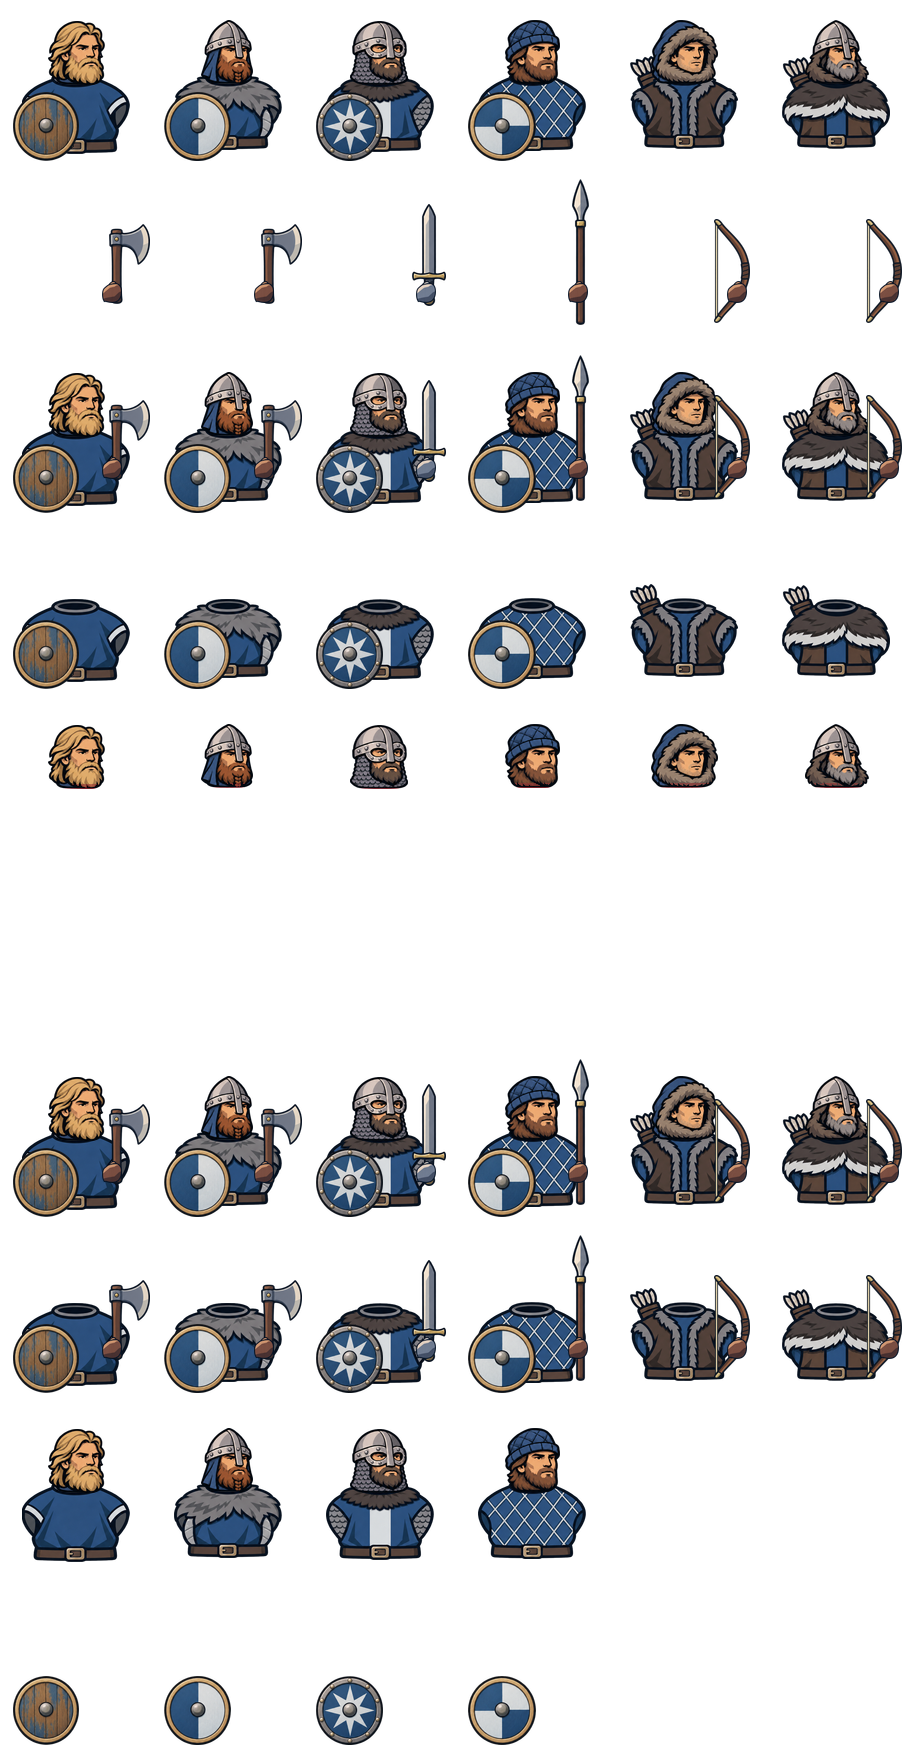
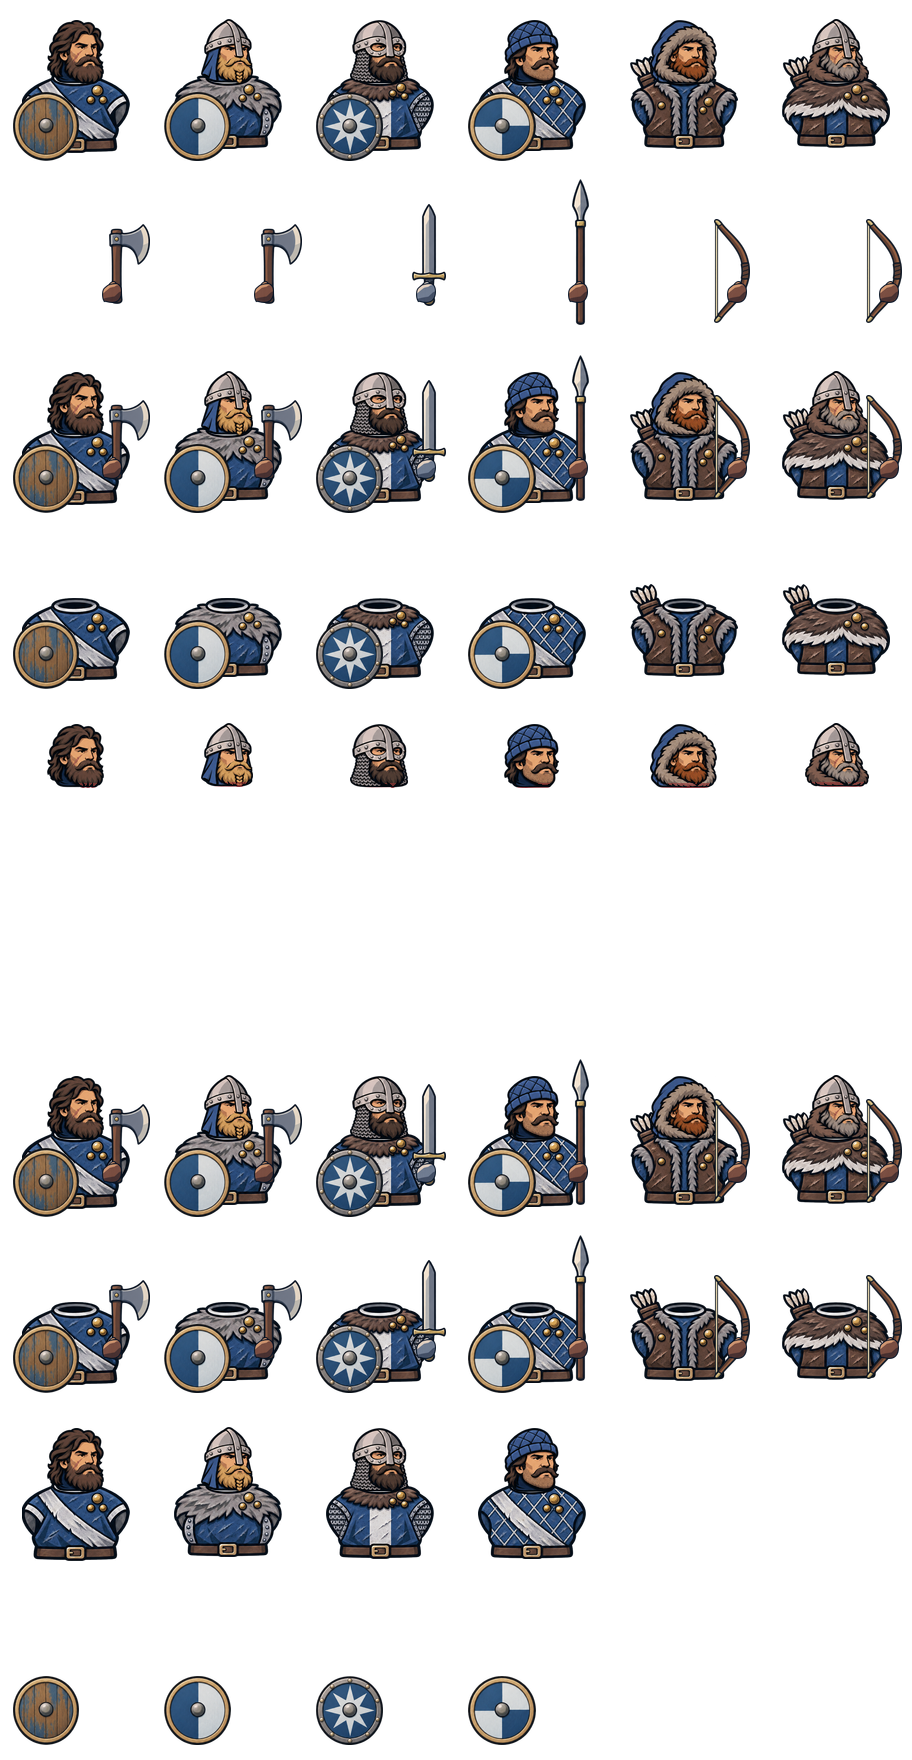
Север: варианты бойцов — другие лица, детали брони и масти коней (#291) (#303)
Claude-Session: https://claude.ai/code/session_0112NLBndME8PiXpuX2g7p2P

diff --git a/godot/tools/battle/heraldic_source/nord-prompts.md b/godot/tools/battle/heraldic_source/nord-prompts.md
@@ -84,3 +84,18 @@ ONE upright wooden hunting BOW in the center of a square canvas, seen from the s
 ```
 
 Если генератор вернул шахматку вместо прозрачности — ничего, фон вычищается заливкой от краёв.
+
+## Варианты
+
+Листы `nord-torsos-v1…v3.png` и `nord-heads-v1…v3.png` — правка `nord-torsos.png` / `nord-heads.png` (вложение) тем же
+генератором (Codex получал промпт файлом `.txt` вместе с исходным листом), по образцу вариантов Галлии (`kin-prompts.md`).
+Туловища: «Draw a VARIANT of the SAME sheet: the same 7 troops in the SAME cells… Every torso keeps EXACTLY its troop's
+armour type, its main colours (deep blue and pale silvery white), its silhouette… Only the DETAILS change: …», хвост про
+стиль, сетку 3×3, ремень с одной пряжкой и цвет тыльного края выреза. v1 — поношенная ткань с тёмными заплатами, отделка
+тонкими полосами, простые железные пряжки; v2 — кожаные ремни и наплечники, шахматная кайма, латунные заклёпки, поясные
+сумки; v3 — выцветшая ткань, белая перевязь и белый ворот, латунные бляхи, ряды заклёпок. Первые v2 и v3 генератор вернул
+почти копией основного листа — промпт пришлось усилить, перечислив детали прямо.
+Головы: «the same 7 helmets, hoods and headgear in the SAME cells… but DIFFERENT MEN under them», шея обрезана так же и
+без голой кожи. v1 — пожилые ветераны с проседью и морщинами; v2 — молодые, бритые или с щетиной, светлые волосы;
+v3 — широкие лица, тёмные волосы, густые усы или бороды, кое-где шрам. Закрывающие лицо уборы меняют одну мелочь:
+v1 — цвет обмотки, v2 — полосатая лента, v3 — навершие шлема.
